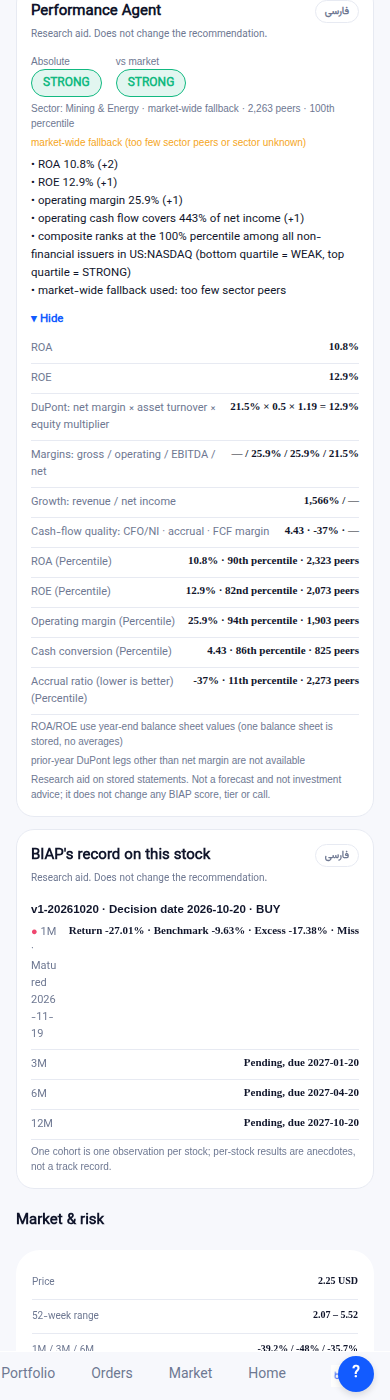
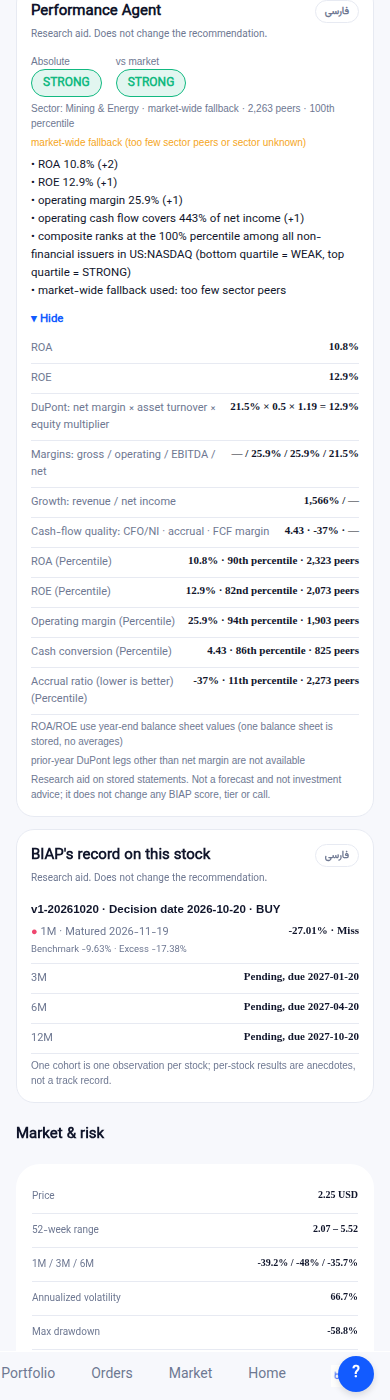
Retake screenshots 08/09 after Ohlson merge (no Provisional tag); STATUS note

diff --git a/STATUS_20261125.md b/STATUS_20261125.md
@@ -177,7 +177,7 @@ Confirmed by owner 2026-11-25 (see the Ohlson section below); provisional label 
 - Not done: per-stock list pagination beyond "load more"; device (Android) visual check; Persian translations of the engine's own reason strings (shown in English by design).
 
 ## Duplicate "Risk Agent" title (PR #115)
-Chose to **rename the old card**, not merge: the engine's card is one of the six scoring votes (it feeds the score), the new section is an advisory model check that must stay separate. Old card now reads "Risk signal (engine score)"; the new section keeps "Risk Agent" with its explanation line. Screenshots 08/09 predate the Ohlson update and still show the "Provisional" tag (removed once the Ohlson PR is merged).
+Chose to **rename the old card**, not merge: the engine's card is one of the six scoring votes (it feeds the score), the new section is an advisory model check that must stay separate. Old card now reads "Risk signal (engine score)"; the new section keeps "Risk Agent" with its explanation line. Screenshots 08/09 were retaken on 2026-11-26 after the Ohlson merge (#116) and no longer show a "Provisional" tag (file 08 renamed to `08-stock-UROY-ohlson-marketwide-en-mobile.png`).
 
 
 ## Ohlson (1980) confirmed (branch fix/ohlson-1980-confirmed-20261125, PR open, not merged)
